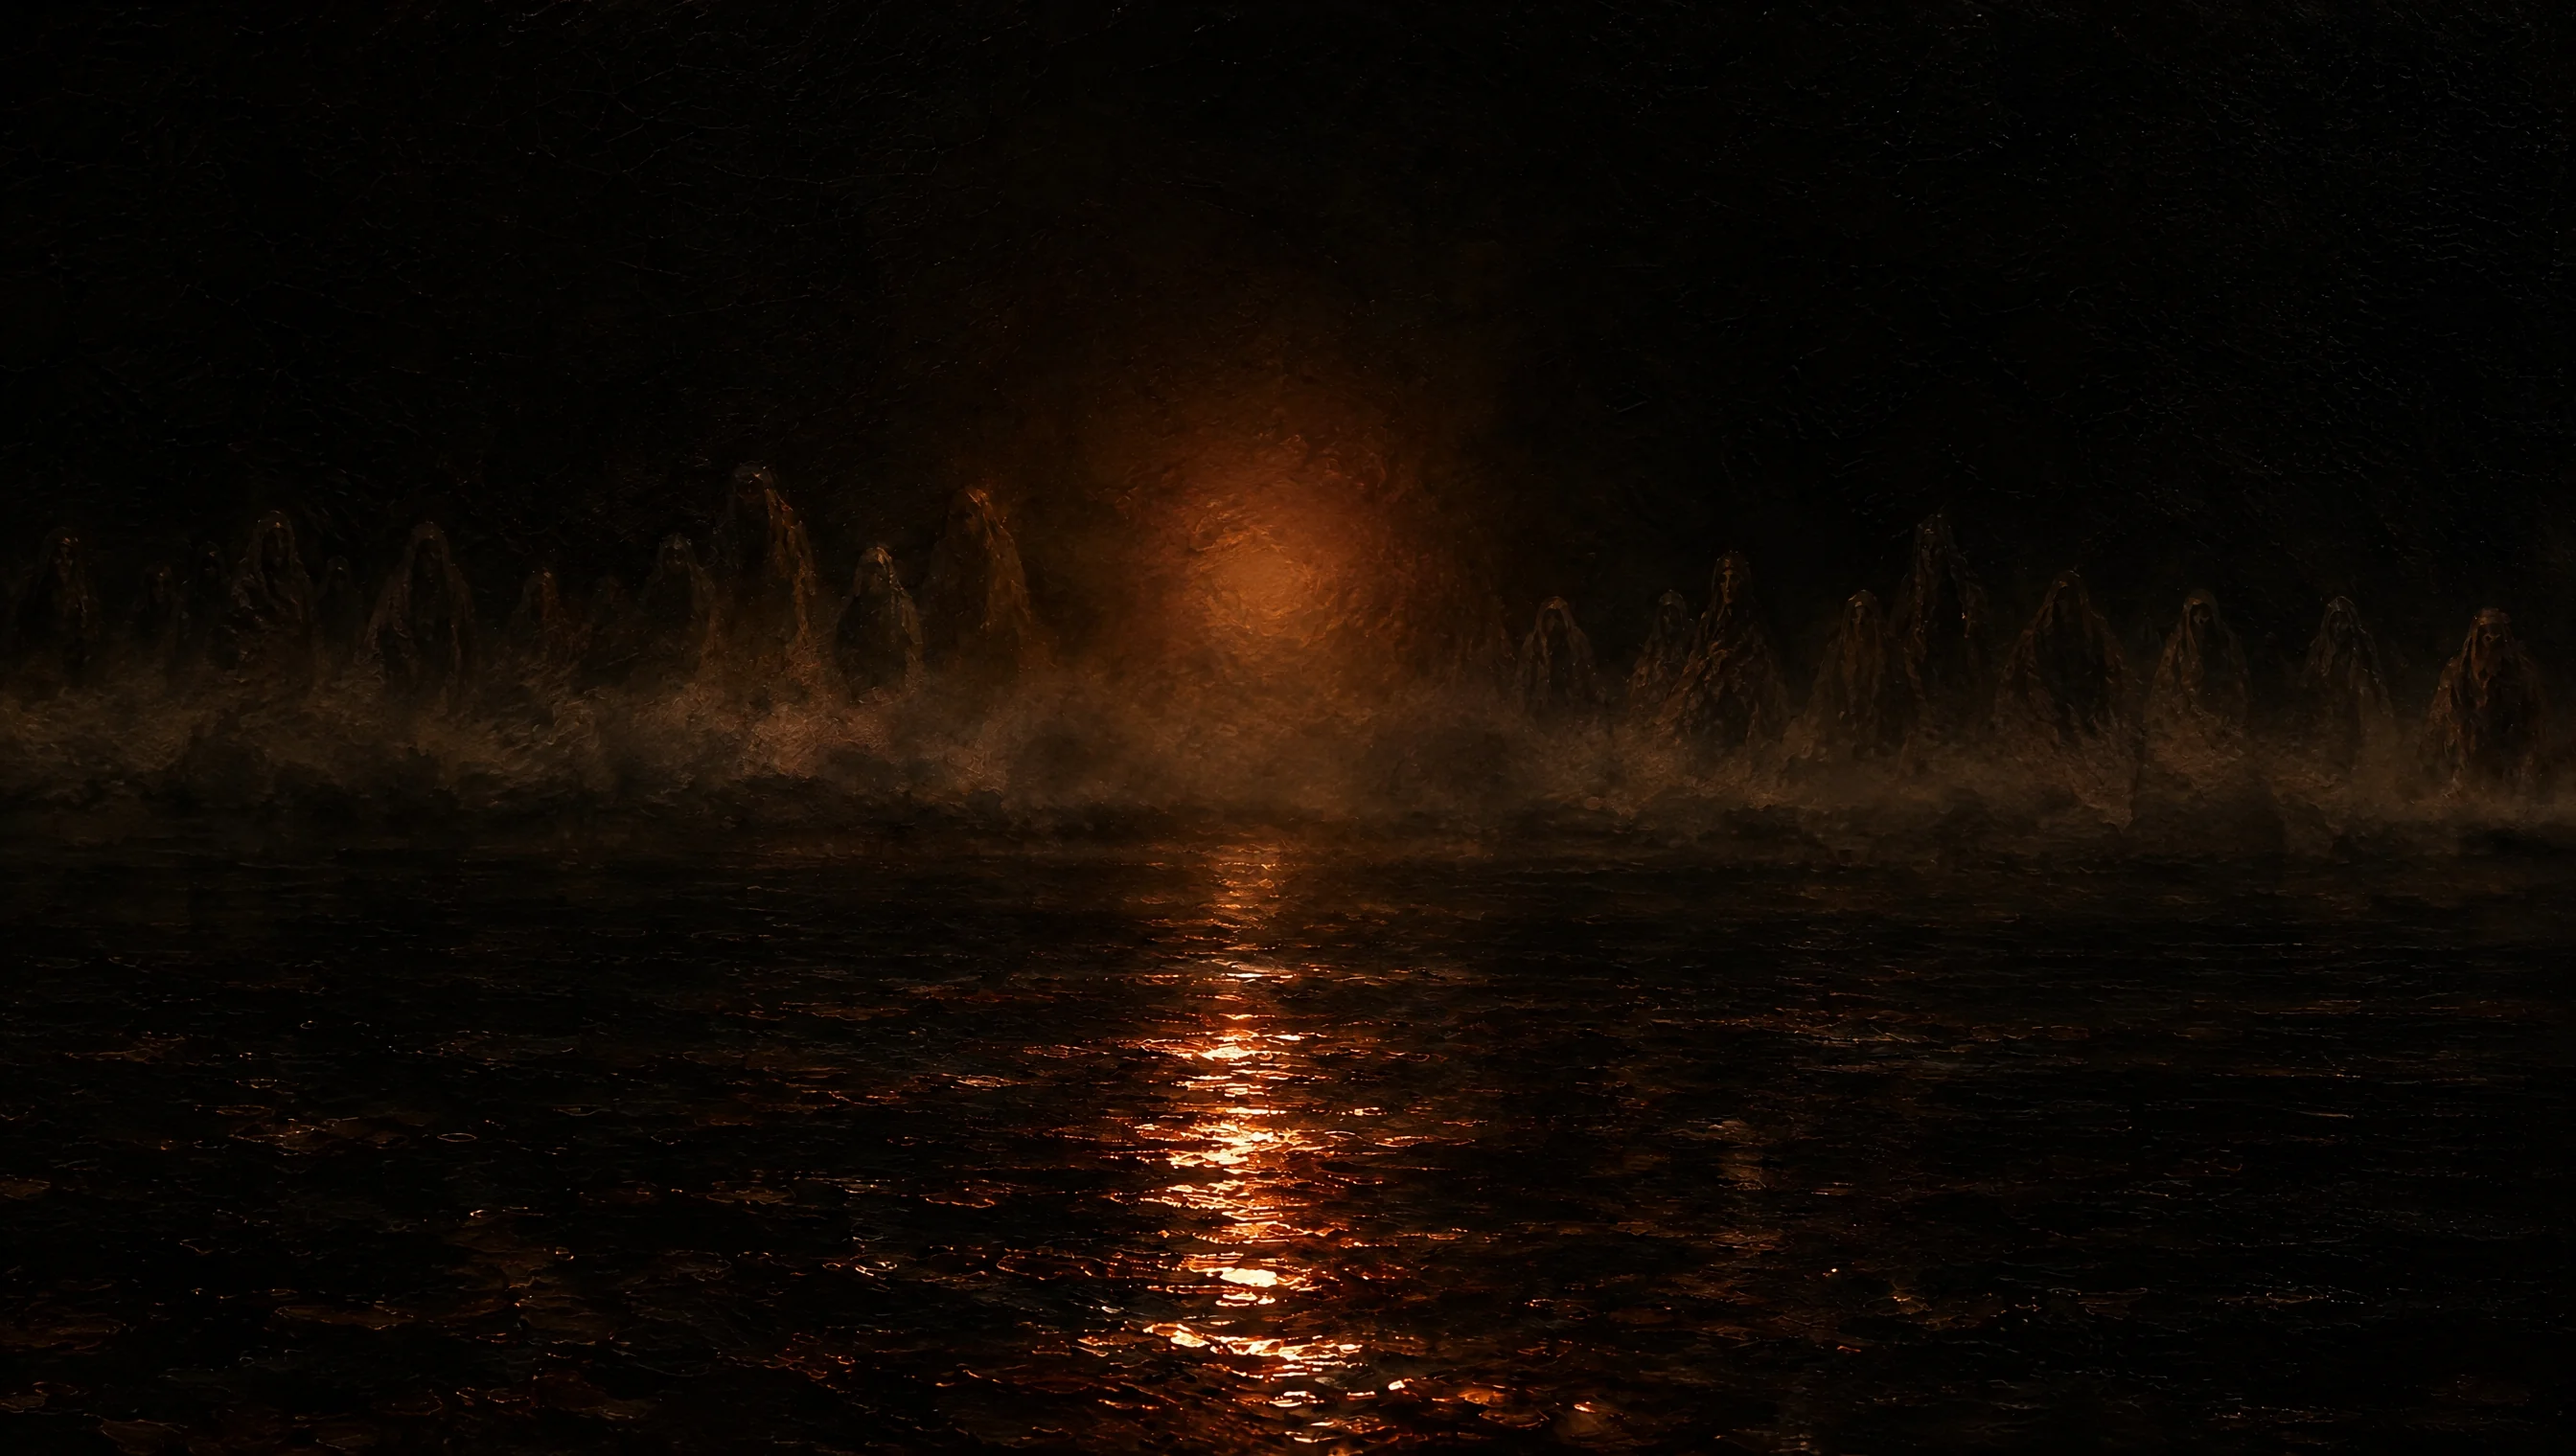
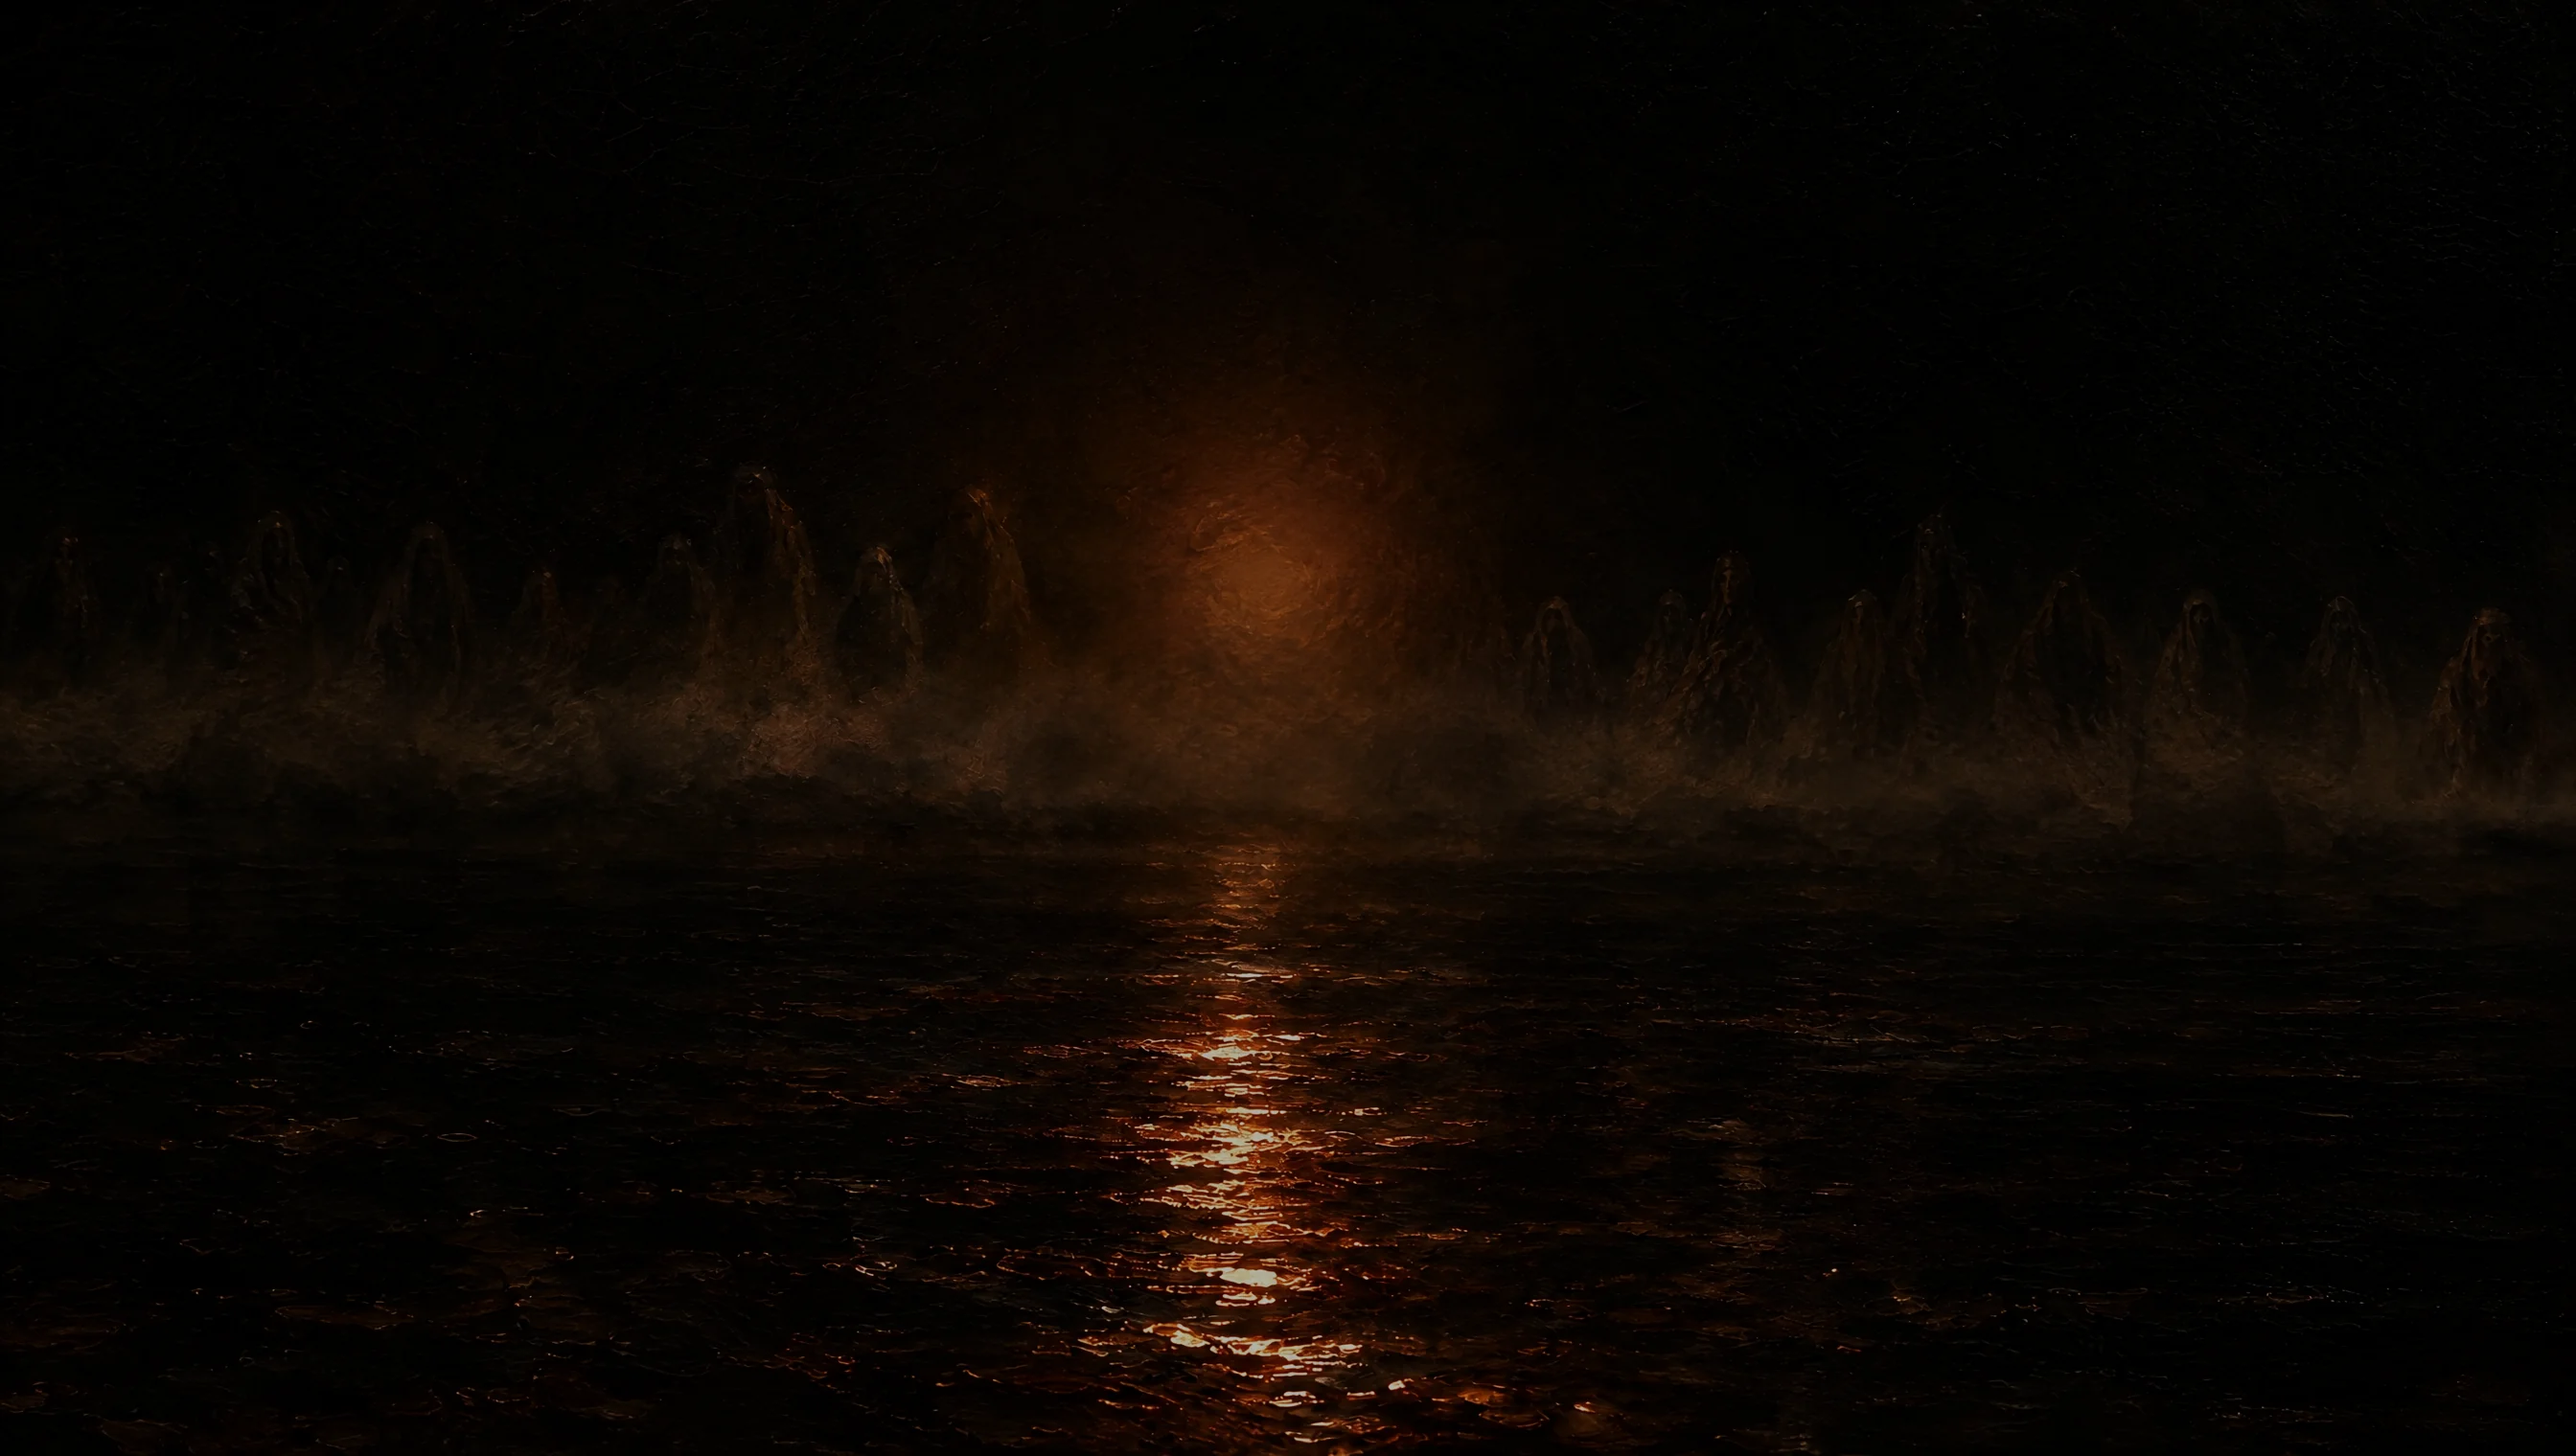
Hero: the painting's planes around the coin, parting on scroll
Stage D. Four fixed planes (back / mid / front-l / front-r) are siblings
of .stage with z 1 / 3 / 7 around the coin (5) and the title lines (4 / 6),
so the sandwich is untouched. They ride the coin's scrub over 0→1vh: the
front planes leave at 1× sideways + 1× down, the boat recedes at .3× and
shrinks to .94, the far bank drifts at .1×; mid + back dissolve over
.5→.9vh, the glow (a radial under the canvas, scaled with the coin) over
.6→1vh. Every frame is graded to the painting's copper on the canvas
(multiply #ff9c55, clipped by the frame's alpha). Planes are darkened per
depth in tools/hero-planes.py (back −30 %, mid −15 %, front −10 %) so the
coin stays the brightest thing. Poster title "Spent once. / Came back.",
lang en, title OBOL. reduced-motion: the planes only fade.

diff --git a/test-sandwich/main.js b/test-sandwich/main.js
@@ -1,7 +1,12 @@
 /* Sandwich test, scene 3 — the new-14 stack (GSAP 3.13 + Locomotive 5/Lenis).
    - coin: 120 alpha-WebP frames on the fixed canvas, one scrubbed timeline
      (frames 0→119 over 0→150vh; scale 1→.6 by 100vh, →.5 by 150vh), then
-     frozen face-on at the centre for the rest of the page;
+     frozen face-on at the centre for the rest of the page; every frame is
+     graded to the painting's copper on the canvas;
+   - hero painting: four fixed planes around the coin ride the same scrub over
+     0→100vh — the scene lets go of the coin (docs/concept.md storyboard): the
+     shore figures leave faster than the scroll, the boat recedes and
+     dissolves, the far bank drifts and goes black, the glow goes with it;
    - titles: SplitText words in masks (lib/split.js), `.is-inview` from
      Locomotive's observer drives the CSS reveal-words contract;
    - story: the paragraph parts around the coin — lib/flow-around.js wraps it
@@ -10,7 +15,7 @@
      119); no re-wrapping, nothing to animate — the motion is the scroll.
    ?cdn=1 → frames from jsDelivr instead of ./frames/ (the CDN check). */
 import { gsap, ScrollTrigger, reduced } from '../lib/gsap.js';
-import { initScroll, onScroll } from '../lib/scroll.js';
+import { initScroll, onScroll, getScroll } from '../lib/scroll.js';
 import { initSplit } from '../lib/split.js';
 import { createFlow } from '../lib/flow-around.js';
 
@@ -24,10 +29,13 @@ const BASE = useCdn ? CDN : LOCAL;
 const TURN_END = 1.5;     // frames 0→119 finish here
 const SCALE_MID = 0.6;    // at 1vh
 const SCALE_END = 0.5;    // at 1.5vh, then frozen
+const TINT = '#ff9c55';   // the painting's copper (224,136,74) lifted ×1.15 — multiplied over every frame
 
 const canvas = document.getElementById('coin');
 const ctx = canvas.getContext('2d');
 const progress = document.getElementById('progress');
+const glow = document.getElementById('glow');
+const [back, mid, frontL, frontR] = ['back', 'mid', 'front-l', 'front-r'].map((n) => document.querySelector(`.plane--${n}`));
 const frames = new Array(N);
 let loaded = 0;
 let current = -1;
@@ -40,8 +48,17 @@ function drawFrame(i) {
   const img = frames[i];
   if (!img || !img.complete || !img.naturalWidth) return; /* not in yet — keep the last frame */
   current = i;
-  ctx.clearRect(0, 0, canvas.width, canvas.height);
-  ctx.drawImage(img, 0, 0, canvas.width, canvas.height);
+  const { width, height } = canvas;
+  ctx.clearRect(0, 0, width, height);
+  ctx.drawImage(img, 0, 0, width, height);
+  /* copper grade, clipped to the coin: multiply the tint over the frame (the
+     rect covers the transparent area too), then keep only the frame's alpha */
+  ctx.globalCompositeOperation = 'multiply';
+  ctx.fillStyle = TINT;
+  ctx.fillRect(0, 0, width, height);
+  ctx.globalCompositeOperation = 'destination-in';
+  ctx.drawImage(img, 0, 0, width, height);
+  ctx.globalCompositeOperation = 'source-over';
 }
 
 function sizeCanvas() {
@@ -71,6 +88,7 @@ for (let i = 0; i < N; i += 1) load(i);
 /* ── scroll + coin timeline ── */
 const state = { frame: 0 };
 const targetFrame = () => Math.round(state.frame);
+const vh = (k) => () => innerHeight * k;   /* function values: re-read on every ScrollTrigger refresh */
 
 initScroll();
 initSplit();
@@ -87,7 +105,12 @@ document.fonts.ready.then(() => requestAnimationFrame(() => requestAnimationFram
 
 if (reduced) {
   state.frame = 0;
-  gsap.set(canvas, { scale: SCALE_END });
+  gsap.set([canvas, glow], { scale: SCALE_END });
+  /* no motion: the painting simply fades out over the first half screen */
+  gsap.fromTo([back, mid, frontL, frontR, glow], { opacity: 1 }, {
+    opacity: 0, ease: 'none',
+    scrollTrigger: { start: 0, end: () => innerHeight * 0.5, scrub: true, invalidateOnRefresh: true },
+  });
 } else {
   const tl = gsap.timeline({
     defaults: { ease: 'none' },
@@ -98,7 +121,19 @@ if (reduced) {
      its start value from wherever the scroll happens to be at refresh time */
   tl.fromTo(state, { frame: 0 }, { frame: N - 1, duration: TURN_END }, 0)
     .fromTo(canvas, { scale: 1 }, { scale: SCALE_MID, duration: 1 }, 0)
-    .fromTo(canvas, { scale: SCALE_MID }, { scale: SCALE_END, duration: TURN_END - 1, immediateRender: false }, 1);
+    .fromTo(canvas, { scale: SCALE_MID }, { scale: SCALE_END, duration: TURN_END - 1, immediateRender: false }, 1)
+    /* the painting, 0→1vh — rates are fractions of the scroll distance:
+       front planes leave at 1× sideways + 1× down (1.4× along the diagonal),
+       the boat recedes at .3× and shrinks, the far bank drifts at .1×;
+       mid + back dissolve over .5→.9, the glow over .6→1 */
+    .fromTo(back, { y: 0 }, { y: vh(-0.1), duration: 1 }, 0)
+    .fromTo(back, { opacity: 1 }, { opacity: 0, duration: 0.4, immediateRender: false }, 0.5)
+    .fromTo(mid, { y: 0, scale: 1 }, { y: vh(-0.3), scale: 0.94, duration: 1 }, 0)
+    .fromTo(mid, { opacity: 1 }, { opacity: 0, duration: 0.4, immediateRender: false }, 0.5)
+    .fromTo(frontL, { x: 0, y: 0 }, { x: vh(-1), y: vh(1), duration: 1 }, 0)
+    .fromTo(frontR, { x: 0, y: 0 }, { x: vh(1), y: vh(1), duration: 1 }, 0)
+    .fromTo(glow, { scale: 1 }, { scale: SCALE_MID, duration: 1 }, 0)
+    .fromTo(glow, { opacity: 1 }, { opacity: 0, duration: 0.4, immediateRender: false }, 0.6);
 }
 
 /* ── the story flows around the coin (lib/flow-around.js) ── */
@@ -140,5 +175,7 @@ window.__test = {
   get loaded() { return loaded; },
   get current() { return current; },
   get scale() { return gsap.getProperty(canvas, 'scale'); },
+  planes: { back, mid, frontL, frontR }, glow,
+  get scroll() { return getScroll(); },   /* Lenis owns the scroll: drive it through here, not window.scrollTo */
   base: BASE,
 };

diff --git a/test-sandwich/index.html b/test-sandwich/index.html
@@ -1,9 +1,9 @@
 <!doctype html>
-<html lang="ru">
+<html lang="en">
 <head>
   <meta charset="utf-8">
   <meta name="viewport" content="width=device-width, initial-scale=1">
-  <title>Сэндвич — тест</title>
+  <title>OBOL — the coin that came back</title>
   <link rel="stylesheet" href="../fonts/inter-tight.css">
   <link rel="stylesheet" href="../fonts/newsreader.css">
   <link rel="stylesheet" href="../fonts/pinyon-script.css">
@@ -37,16 +37,27 @@
     </div>
   </header>
 
-  <!-- fixed layer with the coin: z-index 5, between the text lines (4 / 6) -->
+  <!-- the hero painting ("The refusal", assets/img/hero-master.png) split into
+       planes around the coin. Fixed siblings of .stage — never ancestors of
+       .line — so the sandwich is untouched; GSAP moves the planes themselves.
+       z: back 1 · mid 3 · title back-line 4 · coin 5 · title front-line 6 · front 7 -->
+  <div class="plane plane--back" aria-hidden="true"><img src="../assets/img/hero/back.webp" alt="" fetchpriority="high"></div>
+  <div class="plane plane--mid" aria-hidden="true"><img src="../assets/img/hero/mid.webp" alt=""></div>
+  <div class="plane plane--front plane--front-l" aria-hidden="true"><img src="../assets/img/hero/front-l.webp" alt=""></div>
+  <div class="plane plane--front plane--front-r" aria-hidden="true"><img src="../assets/img/hero/front-r.webp" alt=""></div>
+
+  <!-- fixed layer with the coin: z-index 5, between the text lines (4 / 6).
+       The glow under the canvas is the painting's light; it goes with the scene. -->
   <div class="stage" aria-hidden="true">
+    <div class="stage__glow" id="glow"></div>
     <canvas id="coin"></canvas>
     <div class="progress t-meta" id="progress">0 / 120</div>
   </div>
 
   <section class="screen">
     <h1 class="title t-display-serif" data-split="words" data-split-mask="words" data-scroll data-scroll-offset="30%" data-scroll-repeat>
-      <span class="line front">Struck by hand</span>
-      <span class="line back">in worn copper</span>
+      <span class="line front">Spent once.</span>
+      <span class="line back">Came back.</span>
     </h1>
   </section>
 

diff --git a/test-sandwich/style.css b/test-sandwich/style.css
@@ -180,6 +180,18 @@ body {
   .header__logo img { height: 56px; }
 }
 
+/* ── the hero painting: four fixed planes around the coin ──
+   Leaves of the root stacking context (siblings of .stage, never ancestors of
+   .line), so transform / opacity on them is safe. All four share one frame
+   (2688×1520) and one cover-fit, so they register against each other exactly;
+   the back plane is overscanned for its drift. */
+.plane { position: fixed; inset: 0; pointer-events: none; will-change: transform, opacity; }   /* no overflow clip: the clip would ride along with the drift and expose the body */
+.plane img { width: 100%; height: 100%; object-fit: cover; object-position: center; display: block; }
+.plane--back  { z-index: 1; }
+.plane--back img { transform: scale(1.2); }
+.plane--mid   { z-index: 3; }
+.plane--front { z-index: 7; }
+
 .stage {
   position: fixed;
   inset: 0;
@@ -188,11 +200,20 @@ body {
   display: grid;
   place-items: center;
 }
+.stage__glow, #coin { grid-area: 1 / 1; }   /* one cell: the glow sits under the coin */
 #coin {
   width: min(56vh, 56vw);
   height: min(56vh, 56vw);
   /* scale is scrubbed by scroll in main.js (GSAP writes the transform): 1 → .6 → .5 */
   transform-origin: center;
+}
+/* the painting's light under the coin: 1.6× the coin box, linear falloff to
+   its edge; GSAP scales it with the coin and fades it out with the scene */
+.stage__glow {
+  width: min(89.6vh, 89.6vw);
+  height: min(89.6vh, 89.6vw);
+  border-radius: 50%;
+  background: radial-gradient(circle closest-side, rgba(224, 136, 74, .55), rgba(224, 136, 74, 0));
 }
 
 .progress { text-transform: uppercase; letter-spacing: .12em; opacity: .5; }

diff --git a/tools/hero-planes.py b/tools/hero-planes.py
@@ -1,0 +1,21 @@
+"""Hero planes: assets/src/hero/*.png (lossless cut-outs of the master) →
+assets/img/hero/*.webp, darkened per depth so the coin stays the brightest
+thing in the scene (Dmitriy: back −30 %, the boat −15 %, the front planes −10 %).
+Alpha is untouched. Re-run after changing DARKEN."""
+import os
+from PIL import Image, ImageEnhance
+
+ROOT = os.path.dirname(os.path.dirname(os.path.abspath(__file__)))
+SRC = os.path.join(ROOT, 'assets', 'src', 'hero')
+OUT = os.path.join(ROOT, 'assets', 'img', 'hero')
+DARKEN = {'back': 0.30, 'mid': 0.15, 'front-l': 0.10, 'front-r': 0.10}
+
+for name, k in DARKEN.items():
+    im = Image.open(os.path.join(SRC, f'{name}.png')).convert('RGBA')
+    rgb = ImageEnhance.Brightness(im.convert('RGB')).enhance(1 - k)
+    if name == 'back':
+        rgb.save(os.path.join(OUT, f'{name}.webp'), 'WEBP', quality=85, method=6)
+    else:
+        rgb.putalpha(im.getchannel('A'))
+        rgb.save(os.path.join(OUT, f'{name}.webp'), 'WEBP', quality=82, method=6)
+    print(f'{name:8s} -{k:.0%}  {os.path.getsize(os.path.join(OUT, f"{name}.webp")) // 1024} KB')
